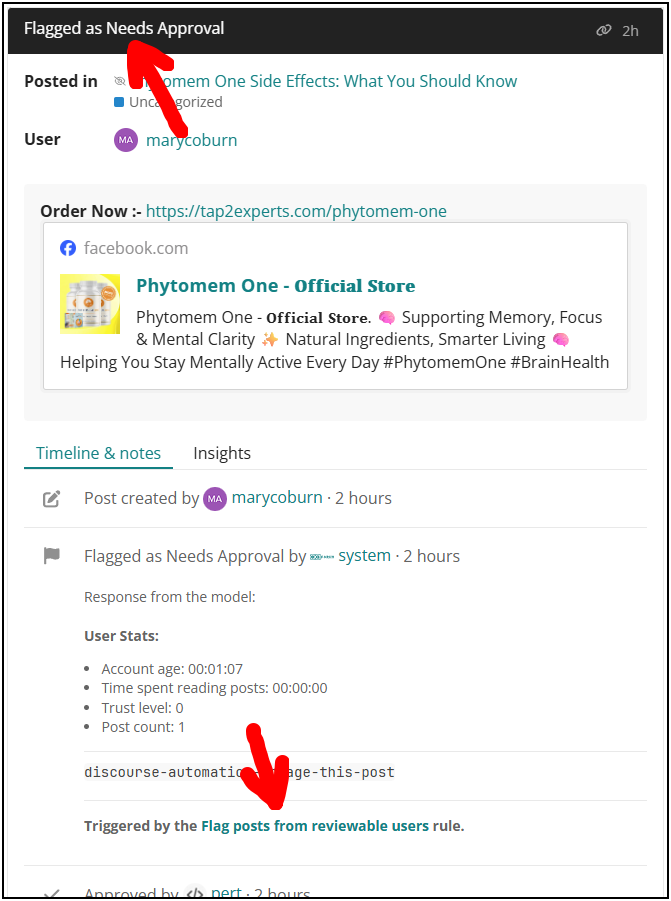
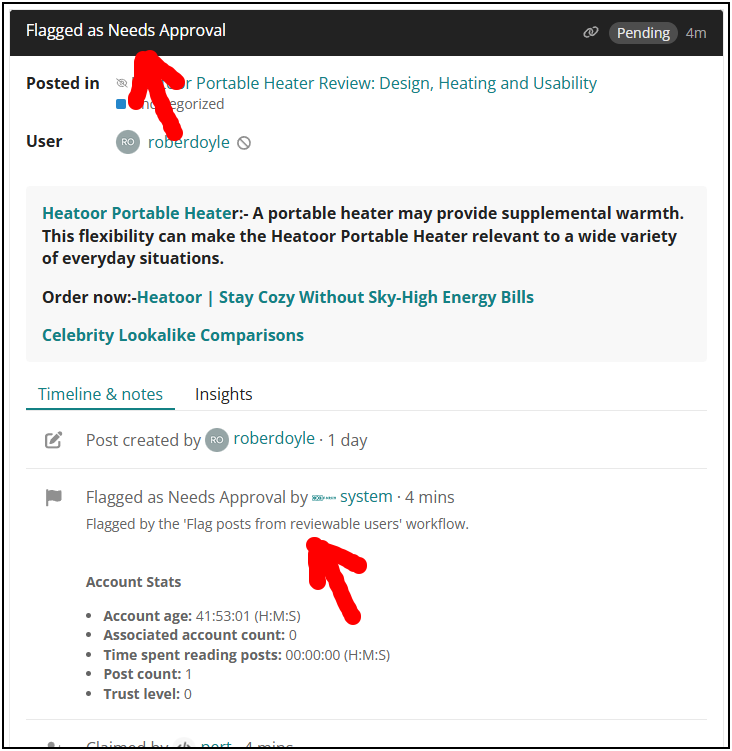
Moderation Procedures: Update screenshot for "Flagged as Needs Approval" flag
The "Flagged as Needs Approval" flags are raised by multiple distinct systems. The moderator must identify the specific
system in order to determine the specific procedure to follow when reviewing these flags. The name of the system is
shown in the flag review item. A screenshot is used to illustrate where the moderator can find that information.

A new system is now being used to raise these flags. That resulted in a change to the specific location and context of
the name of the system that raised the flag. The screenshot is hereby updated to reflect the current layout of the
review items for these flags.

Changed region(s): [[0.0, 0.0, 1.0, 1.0], [0.0298, 0.49, 0.6855, 0.9494], [0.5067, 0.5513, 0.5663, 0.5819]]

diff --git a/content/categories/staff/moderation/_topics/moderation-procedures/1.md b/content/categories/staff/moderation/_topics/moderation-procedures/1.md
@@ -583,7 +583,7 @@ The name of the specific automated system that triggered the flag will be displa
 
 <!-- Source: https://github.com/arduino/forum-assets/blob/main/content/categories/staff/moderation/_topics/moderation-procedures/_assets/needs-approval-review-item.png -->
 
-!["flagged as needs approval" review item|372x499, 95%](upload://5tLRTvdMolbY1LjM8N4OZ6xOka2.png)
+!["flagged as needs approval" review item|487x500, 90%](upload://HeNuzircVzEewWb1QTx2ks70sx.png)
 
 <a name="flag-posts-from-reviewable-users"></a>
 
